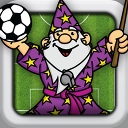
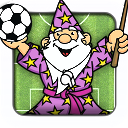
new Magician with alpha color and Database grid columns with minWidth.

diff --git a/src/view/DatabasePanel.java b/src/view/DatabasePanel.java
@@ -365,7 +365,9 @@ public class DatabasePanel extends JPanel {
 					return false;
 				}
 		});
-		
+		playersTable.getColumnModel().getColumn(0).setMinWidth(180);
+		playersTable.getColumnModel().getColumn(1).setMinWidth(30);
+		playersTable.getColumnModel().getColumn(2).setMinWidth(60);
 		
 	}
 
